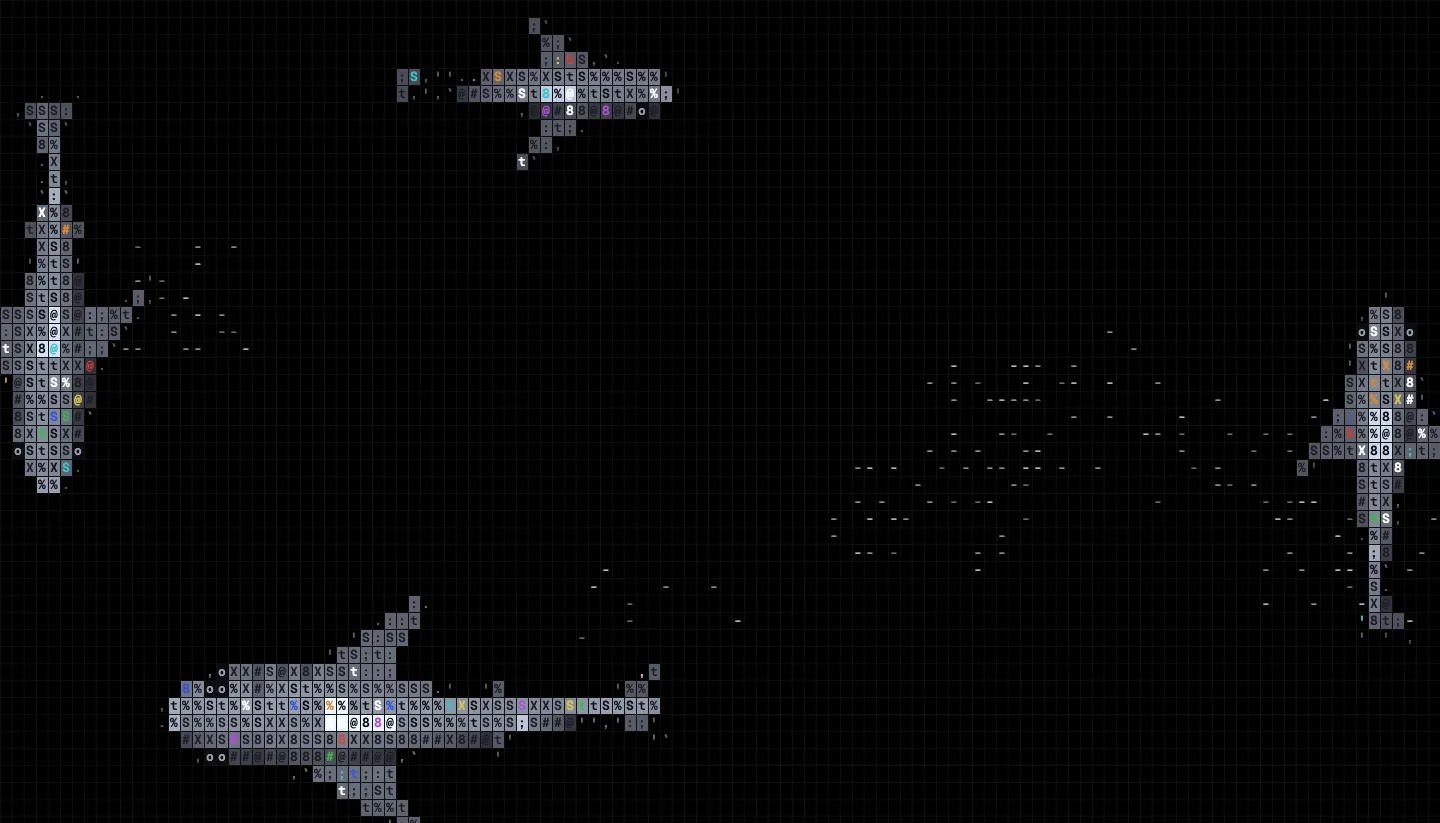
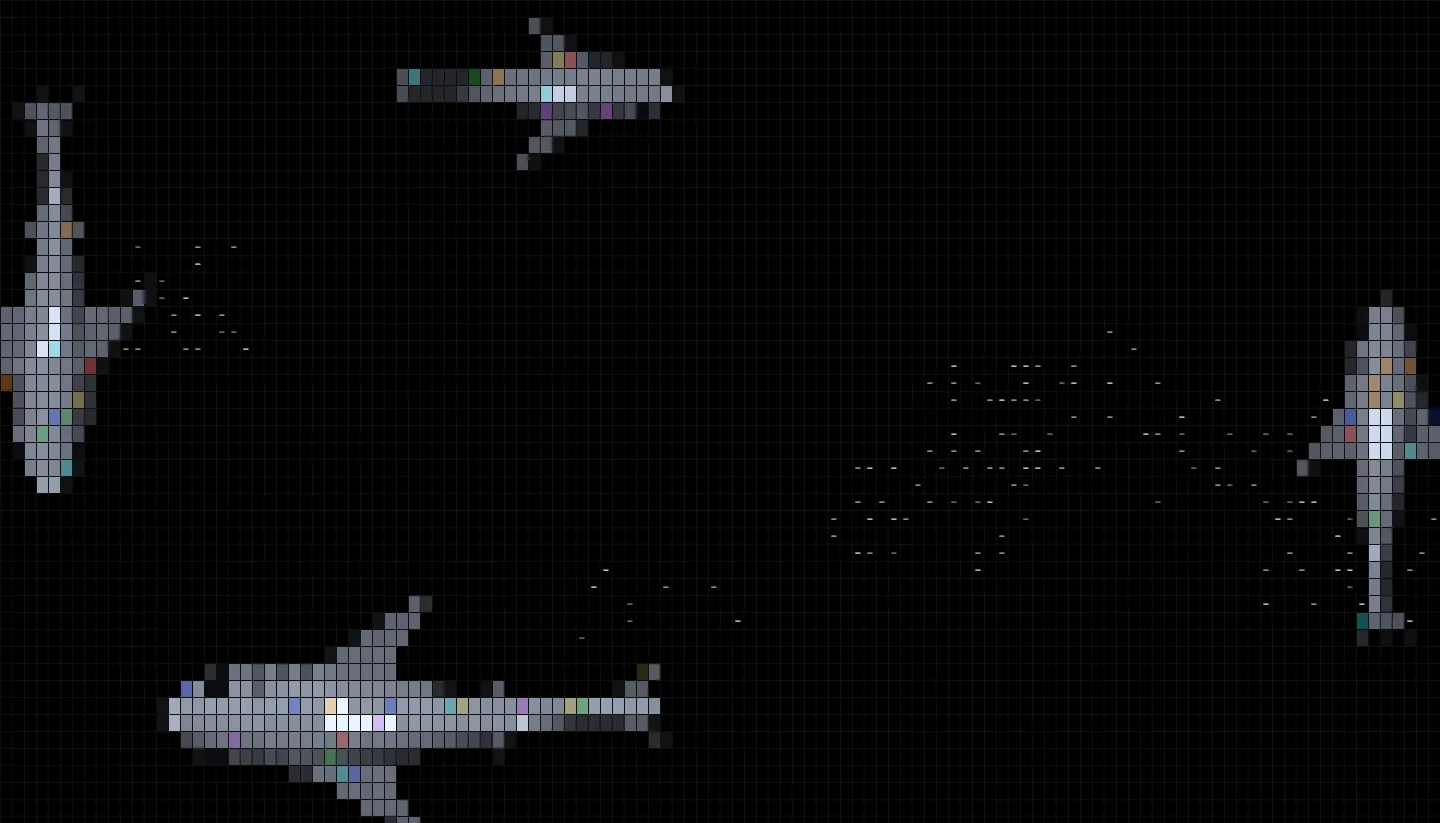
style: draw shark cells without text glyphs

diff --git a/web/tests/e2e/shark-background.spec.ts b/web/tests/e2e/shark-background.spec.ts
@@ -4,19 +4,23 @@ import { expect, test } from './fixtures'
 const canvasSelector = '[data-testid="shark-background"] canvas'
 
 const posterSelector = '[data-testid="shark-background"] picture img'
-type CountedWindow = Window & { oceanDraws: number }
+type CountedWindow = Window & { oceanDraws: number; oceanText: Set<string> }
 
 async function countDraws(page: Page) {
   await page.addInitScript(() => {
     const counted = window as CountedWindow
     counted.oceanDraws = 0
+    counted.oceanText = new Set()
     const prototype = CanvasRenderingContext2D.prototype
     for (const name of ['fillText', 'drawImage'] as const) {
       const original = prototype[name]
       Object.defineProperty(prototype, name, {
         configurable: true,
         value(this: CanvasRenderingContext2D, ...args: unknown[]) {
-          if (this.canvas instanceof HTMLCanvasElement && this.canvas.matches('[data-testid="shark-background"] canvas')) counted.oceanDraws++
+          if (this.canvas instanceof HTMLCanvasElement && this.canvas.matches('[data-testid="shark-background"] canvas')) {
+            counted.oceanDraws++
+            if (name === 'fillText') counted.oceanText.add(String(args[0]))
+          }
           return Reflect.apply(original, this, args)
         },
       })
@@ -72,6 +76,8 @@ test('the decorative scene moves and keyboard pause preserves usable hero action
   const frame = () => canvas.evaluate((el: HTMLCanvasElement) => el.toDataURL())
   const first = await frame()
   await expect.poll(frame).not.toBe(first)
+  const text = await page.evaluate(() => [...(window as CountedWindow).oceanText])
+  expect(text.filter(glyph => !['-', '*', '·'].includes(glyph))).toEqual([])
   await page.getByRole('button', { name: 'Pause background animation' }).focus()
   await page.keyboard.press('Enter')
   await expect(page.getByRole('button', { name: 'Play background animation' })).toBeFocused()

diff --git a/web/lib/ocean-controller.ts b/web/lib/ocean-controller.ts
@@ -73,7 +73,7 @@ export function mountOcean(canvas: HTMLCanvasElement, onReady: (ready: boolean) 
     const nextWidth = Math.round(bounds.width), nextHeight = Math.round(bounds.height)
     if (nextWidth <= 0 || nextHeight <= 0) return false
     const nextDensity = Math.min(1.5, window.devicePixelRatio || 1)
-    renderer ??= new AsciiRenderer(canvas)
+    renderer ??= new AsciiRenderer(canvas, { sharkGlyphs: false })
     if (nextWidth !== width || nextHeight !== height || nextDensity !== density) {
       renderer.setFontFamily(getComputedStyle(canvas).fontFamily)
       renderer.resize(nextWidth, nextHeight, nextDensity)

diff --git a/docs/notes/plan.md b/docs/notes/plan.md
@@ -1138,3 +1138,11 @@ Specification: pale charcoal ASCII sharks move slowly behind the opening only. N
 Specification: preserve existing foreground typography, 1280px frame and left/right positions. Use a minimum hero height equal to viewport minus header, allowing content to grow on short windows and mobile. The canvas fills the section with full opacity, light-mode inversion/multiply and dark-mode screen blending. Only a localized copy backing and a short bottom fade remain. Use four classic sharks at 1.4/1.1/.95/.8 on desktop and two at 1.45/1.05 on mobile. Preserve upstream travel speed, shaded glyphs, body bends and sparse fish; disable pointer attraction and splashes. Stop simulation as well as rendering while inactive and never catch up hidden time. Keep RunStory, backend and evidence unchanged.
 
 Review assets and results: [full-screen ocean preview](fullscreen-ocean-preview.md).
+
+## Shark cell colors (October 28)
+
+- [x] Draw shaded shark cells without letters or symbols, preserving the swimming and cell grid.
+- [x] Regenerate both static posters with the same rendering option.
+- [ ] Verify the deployed preview in Chromium and WebKit and update PR #112.
+
+Specification: keep the gray shading and restrained color accents inside each cell. Use cell coverage for the silhouette edges. Preserve the fish, foreground, lifecycle controls and production deployment.

diff --git a/docs/notes/fullscreen-ocean-preview.md b/docs/notes/fullscreen-ocean-preview.md
@@ -30,7 +30,7 @@ The hero now fills the desktop opening. Its existing copy, actions and edition s
 - Reviewed 320, 390, 430, 820, 844, 1440 and 1920px widths, light/dark themes and a 390px-high landscape window. No horizontal overflow or page errors appeared.
 - Doubling hero text size at 390px kept both Chromium and WebKit within the viewport. The section grew to about 2116px. At 1440px it grew to about 1193px.
 - Pause/resume, resize, hidden tabs, printing, reduced motion, unavailable canvas, disabled scripts, forced colors and keyboard actions passed. The ocean stopped drawing while offscreen, including after resize.
-- The original renderer and simulation match the pinned source after removing the documented TypeScript directive. The MIT license is retained in the source and public assets.
+- The math, species and simulation modules match the pinned source after removing the documented TypeScript directive. The renderer has a documented color-cell option. The MIT license is retained in the source and public assets.
 
 Cold mobile measurements used Pixel 7 emulation at 412x839, disabled cache, 4x CPU throttling, 1.6Mbps down, 750Kbps up and 150ms latency. The preview toolbar was blocked. Three samples on `60d1e340`:
 

diff --git a/docs/notes/lessons.md b/docs/notes/lessons.md
@@ -616,3 +616,5 @@ Keep the primary presentation focused on the product and its results. Put record
 - The first shark background failed the requested visual effect: fixed positions, small drift, reduced opacity and broad masks made it faint and apparently stationary. Find and inspect the creator's published component before approximating a supplied reference. Verify movement in a recording, and preserve the owner's requested foreground layout.
 
 - Check fallback artwork visually at narrow widths. A loaded poster can still crop its subject; image visibility assertions alone missed the centered mobile crop.
+
+- The owner prefers shaded shark cells without the ASCII characters. Keep the source simulation, but adapt its visual texture to the requested treatment and update the static fallback too.
